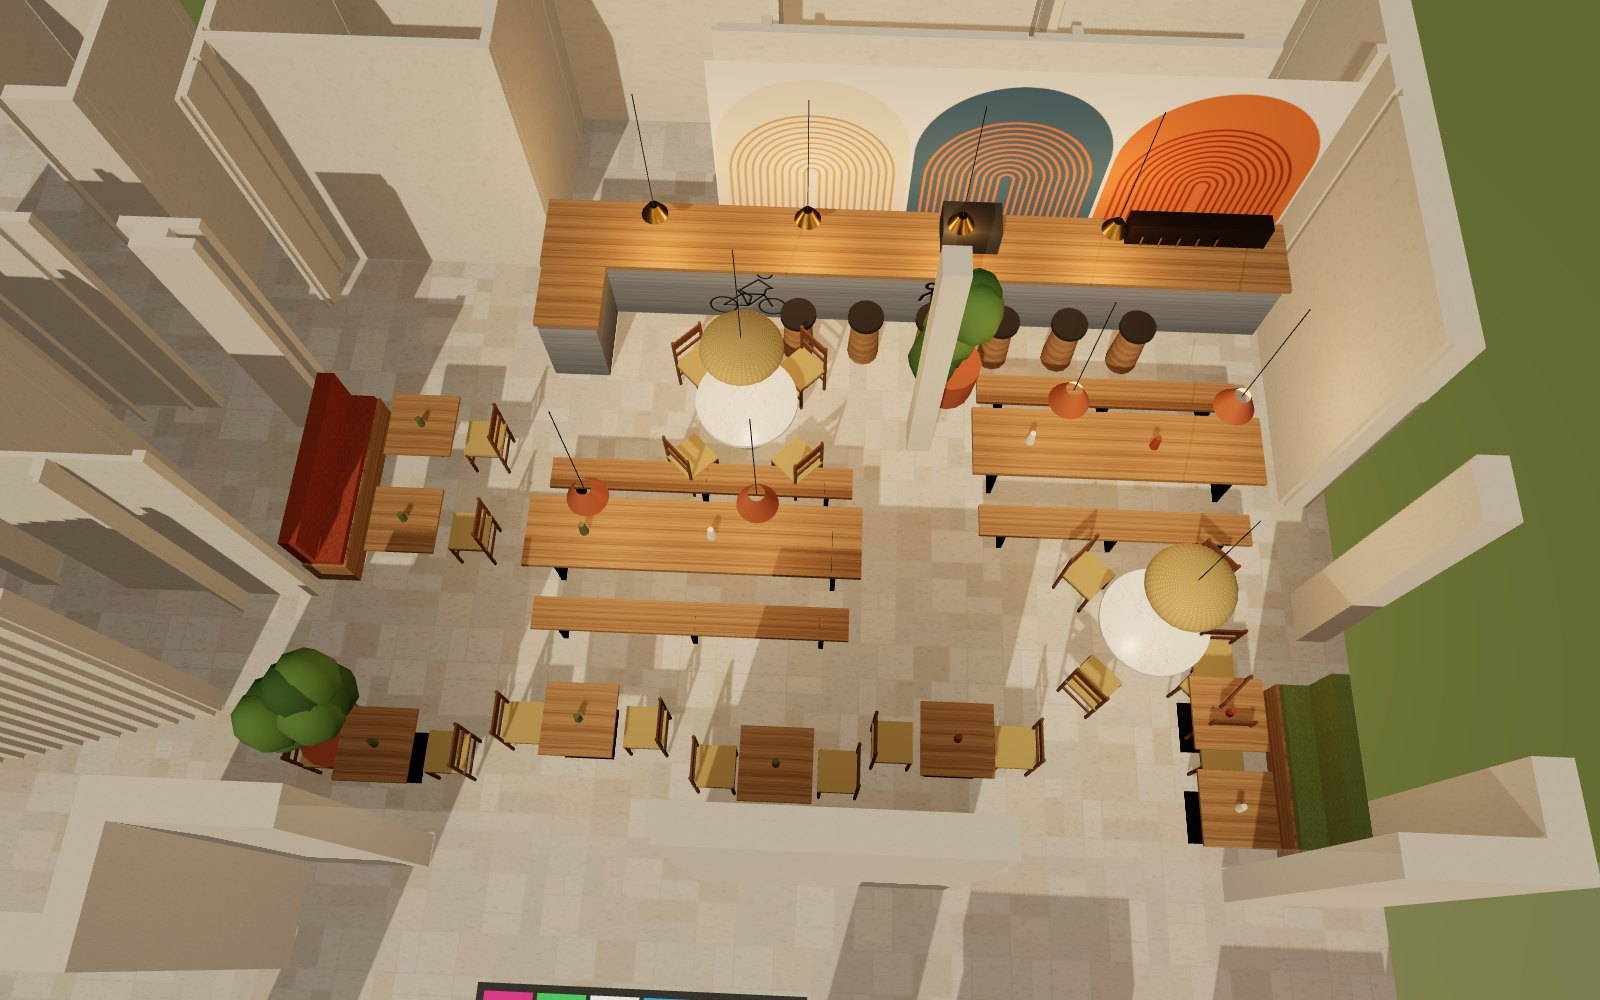
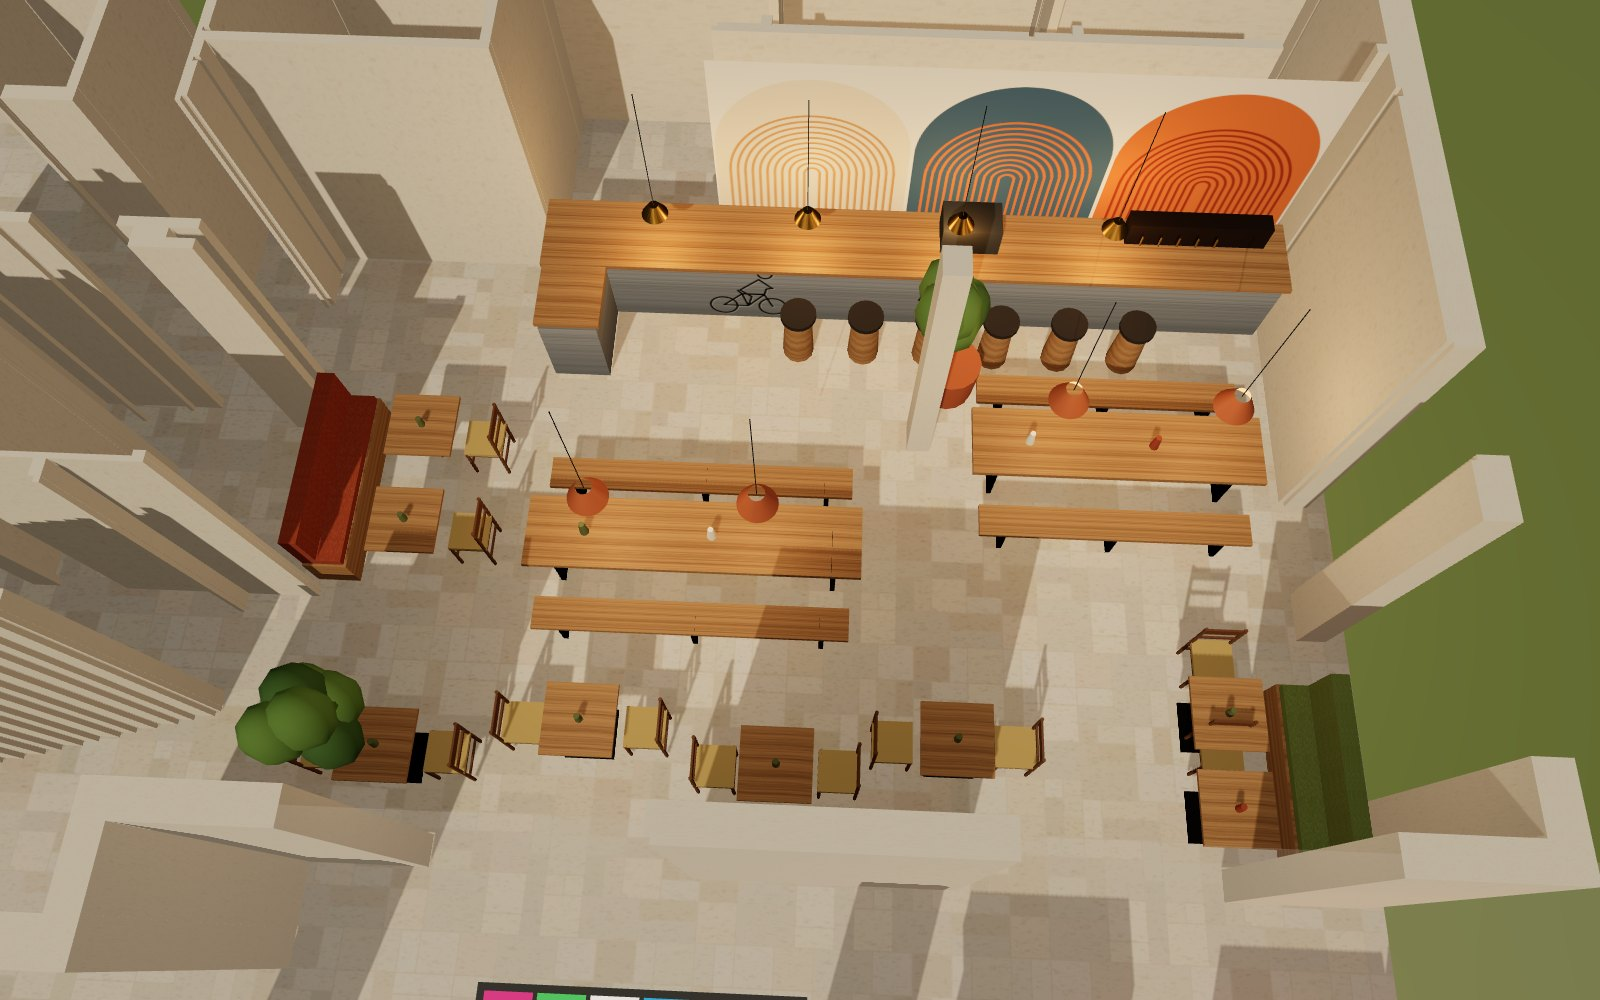
Sala: tolti i due tavoli tondi bianchi, più spazio davanti al bar
Claude-Session: https://claude.ai/code/session_01QZXxqty357DcebAAL5Vpaf

diff --git a/render-3d/sala-tavoli-misti/sorgente/pianoterra.js b/render-3d/sala-tavoli-misti/sorgente/pianoterra.js
@@ -378,7 +378,7 @@ else { box(P(210), P(1450), HS, HS + 0.06, P(840), P(1110), M('#e9e2d6', { trans
   longT(790, 1060, 565, 625); longT(1150, 1390, 470, 530);
   const roundT = (px, pz) => { const x = P(px), z = P(pz); roundTable(x, z, 0.55, 0.75, marble); for (let i = 0; i < 4; i++) { const a = i * Math.PI / 2 + Math.PI / 4; straw(x + Math.cos(a) * 0.8, z + Math.sin(a) * 0.8, Math.atan2(-Math.cos(a), -Math.sin(a)), 0); }
     cyl(x, z, 0.004, 1.9, HS, M('#111'), 6); const s = new THREE.Mesh(new THREE.SphereGeometry(0.42, 24, 12, 0, Math.PI * 2, 0, Math.PI / 2), T(texStraw, { side: THREE.DoubleSide })); s.scale.y = 0.5; s.position.set(x, 1.85, z); scene.add(s); const l = new THREE.PointLight('#ffcf94', 1.2, 0, 2); l.position.set(x, 1.7, z); scene.add(l); };
-  roundT(960, 470); roundT(1290, 650);
+  // round white tables removed: more space in front of the bar
   const smallT = (px, pz, rotChairs) => { const x = P(px), z = P(pz); box(x - 0.35, x + 0.35, 0.72, 0.76, z - 0.35, z + 0.35, oakM); cyl(x, z, 0.04, 0, 0.72, ironM, 8); box(x - 0.25, x + 0.25, 0, 0.02, z - 0.25, z + 0.25, ironM);
     if (rotChairs) { straw(x - 0.6, z, Math.PI / 2, 0); straw(x + 0.6, z, -Math.PI / 2, 0); } else { straw(x, z - 0.6, 0, 0); }
     cyl(x, z, 0.04, 0.76, 0.9, M(tc[Math.floor(rnd() * 3)]), 10, 0.03); };
@@ -405,7 +405,7 @@ const sun = new THREE.DirectionalLight('#fff0d8', AERIAL ? 2.4 : 1.4); sun.posit
 sun.castShadow = true; sun.shadow.mapSize.set(4096, 4096); Object.assign(sun.shadow.camera, { left: -16, right: 16, top: 16, bottom: -16, near: 1, far: 60 }); sun.shadow.bias = -0.0005; scene.add(sun);
 if (!AERIAL) for (const [x, z] of [[11, 7], [16, 7], [11, 9], [16, 9]]) { const l = new THREE.PointLight('#ffe2b8', 1.6, 0, 2); l.position.set(x, 3.0, z); scene.add(l); }
 scene.background = new THREE.Color('#2b3a2f');
-const CAMS = { panche: [[17.0, 1.6, 8.8], [11.5, 0.6, 7.0], 64], panca2: [[10.8, 1.6, 8.2], [7.8, 0.7, 6.9], 66], sala2: [[11.6, 1.75, 5.0], [15.5, 0.9, 9.8], 68], salatop: [[13.0, 11.5, 11.5], [12.8, 0, 6.8], 48], alto: [[9.3, 27, 17.5], [9.3, 0, 7.4], 42], bar: [[14.2, 1.6, 9.6], [14.2, 1.4, 3.6], 68], sala: [[17.6, 1.7, 9.9], [9.5, 1.1, 5.0], 66], portico: [[3.6, 1.6, 13.6], [14, 0.9, 12.6], 64] };
+const CAMS = { panche: [[17.0, 1.6, 8.8], [11.5, 0.6, 7.0], 64], sala2: [[11.6, 1.75, 5.0], [15.5, 0.9, 9.8], 68], salatop: [[13.0, 11.5, 11.5], [12.8, 0, 6.8], 48], alto: [[9.3, 27, 17.5], [9.3, 0, 7.4], 42], bar: [[14.2, 1.6, 9.6], [14.2, 1.4, 3.6], 68], sala: [[17.6, 1.7, 9.9], [9.5, 1.1, 5.0], 66], portico: [[3.6, 1.6, 13.6], [14, 0.9, 12.6], 64] };
 const k = CAMS[VIEW] || CAMS.alto;
 const camera = new THREE.PerspectiveCamera(k[2], W / H, 0.05, 200); camera.position.set(...k[0]); camera.lookAt(...k[1]);
 renderer.render(scene, camera);
